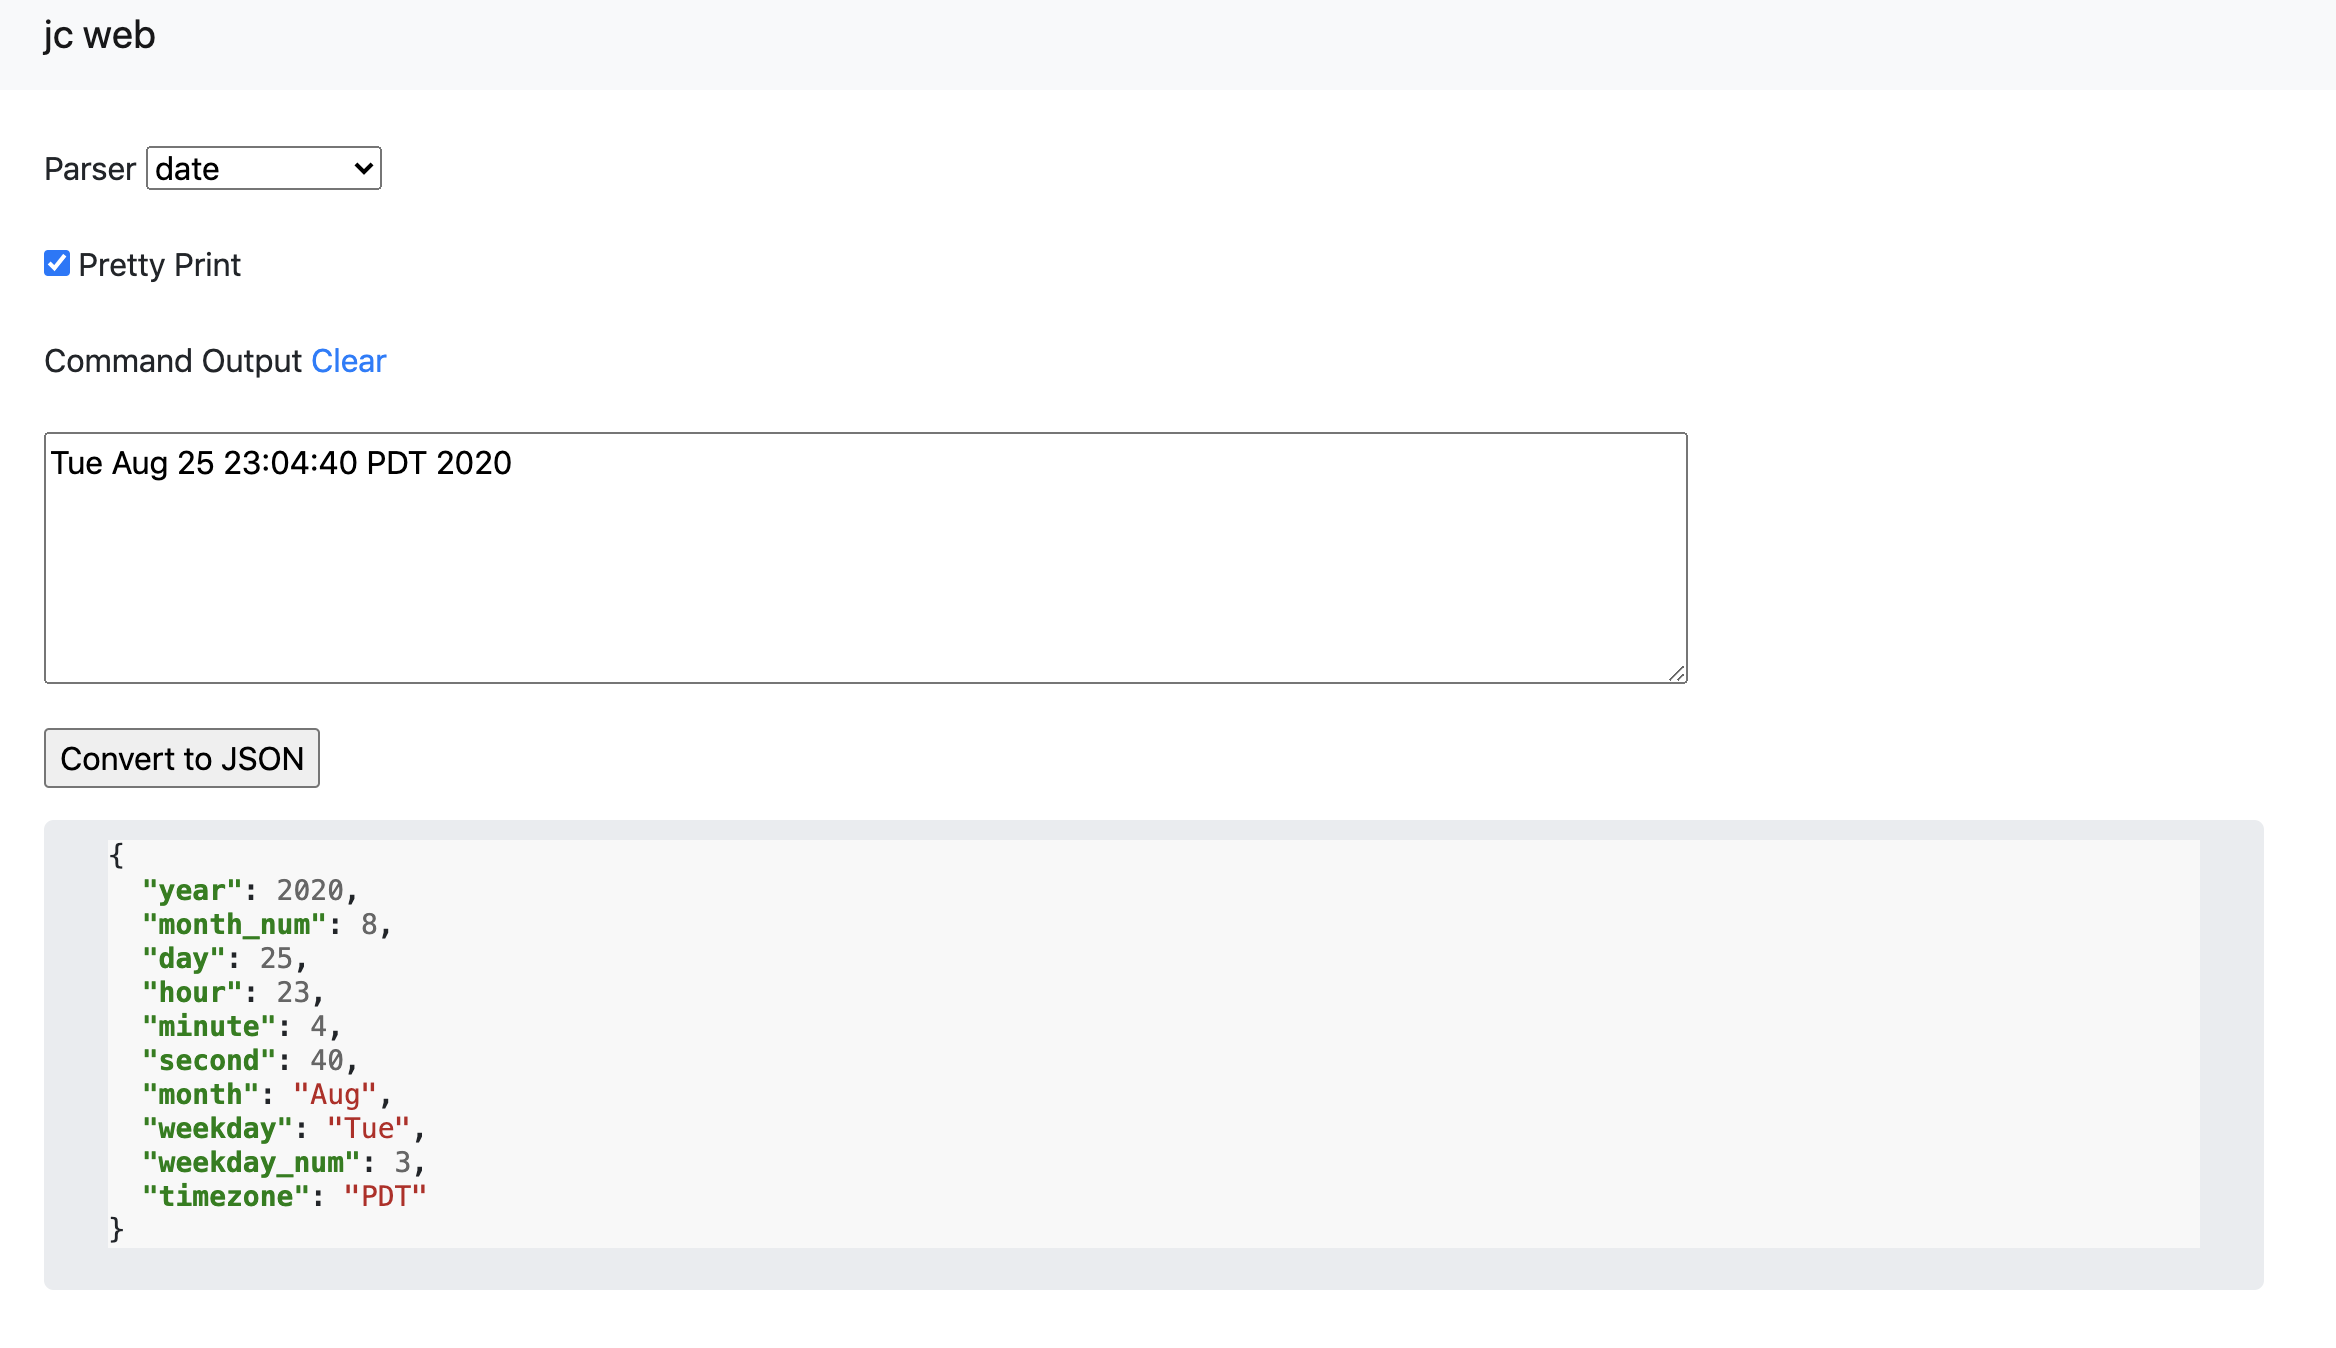
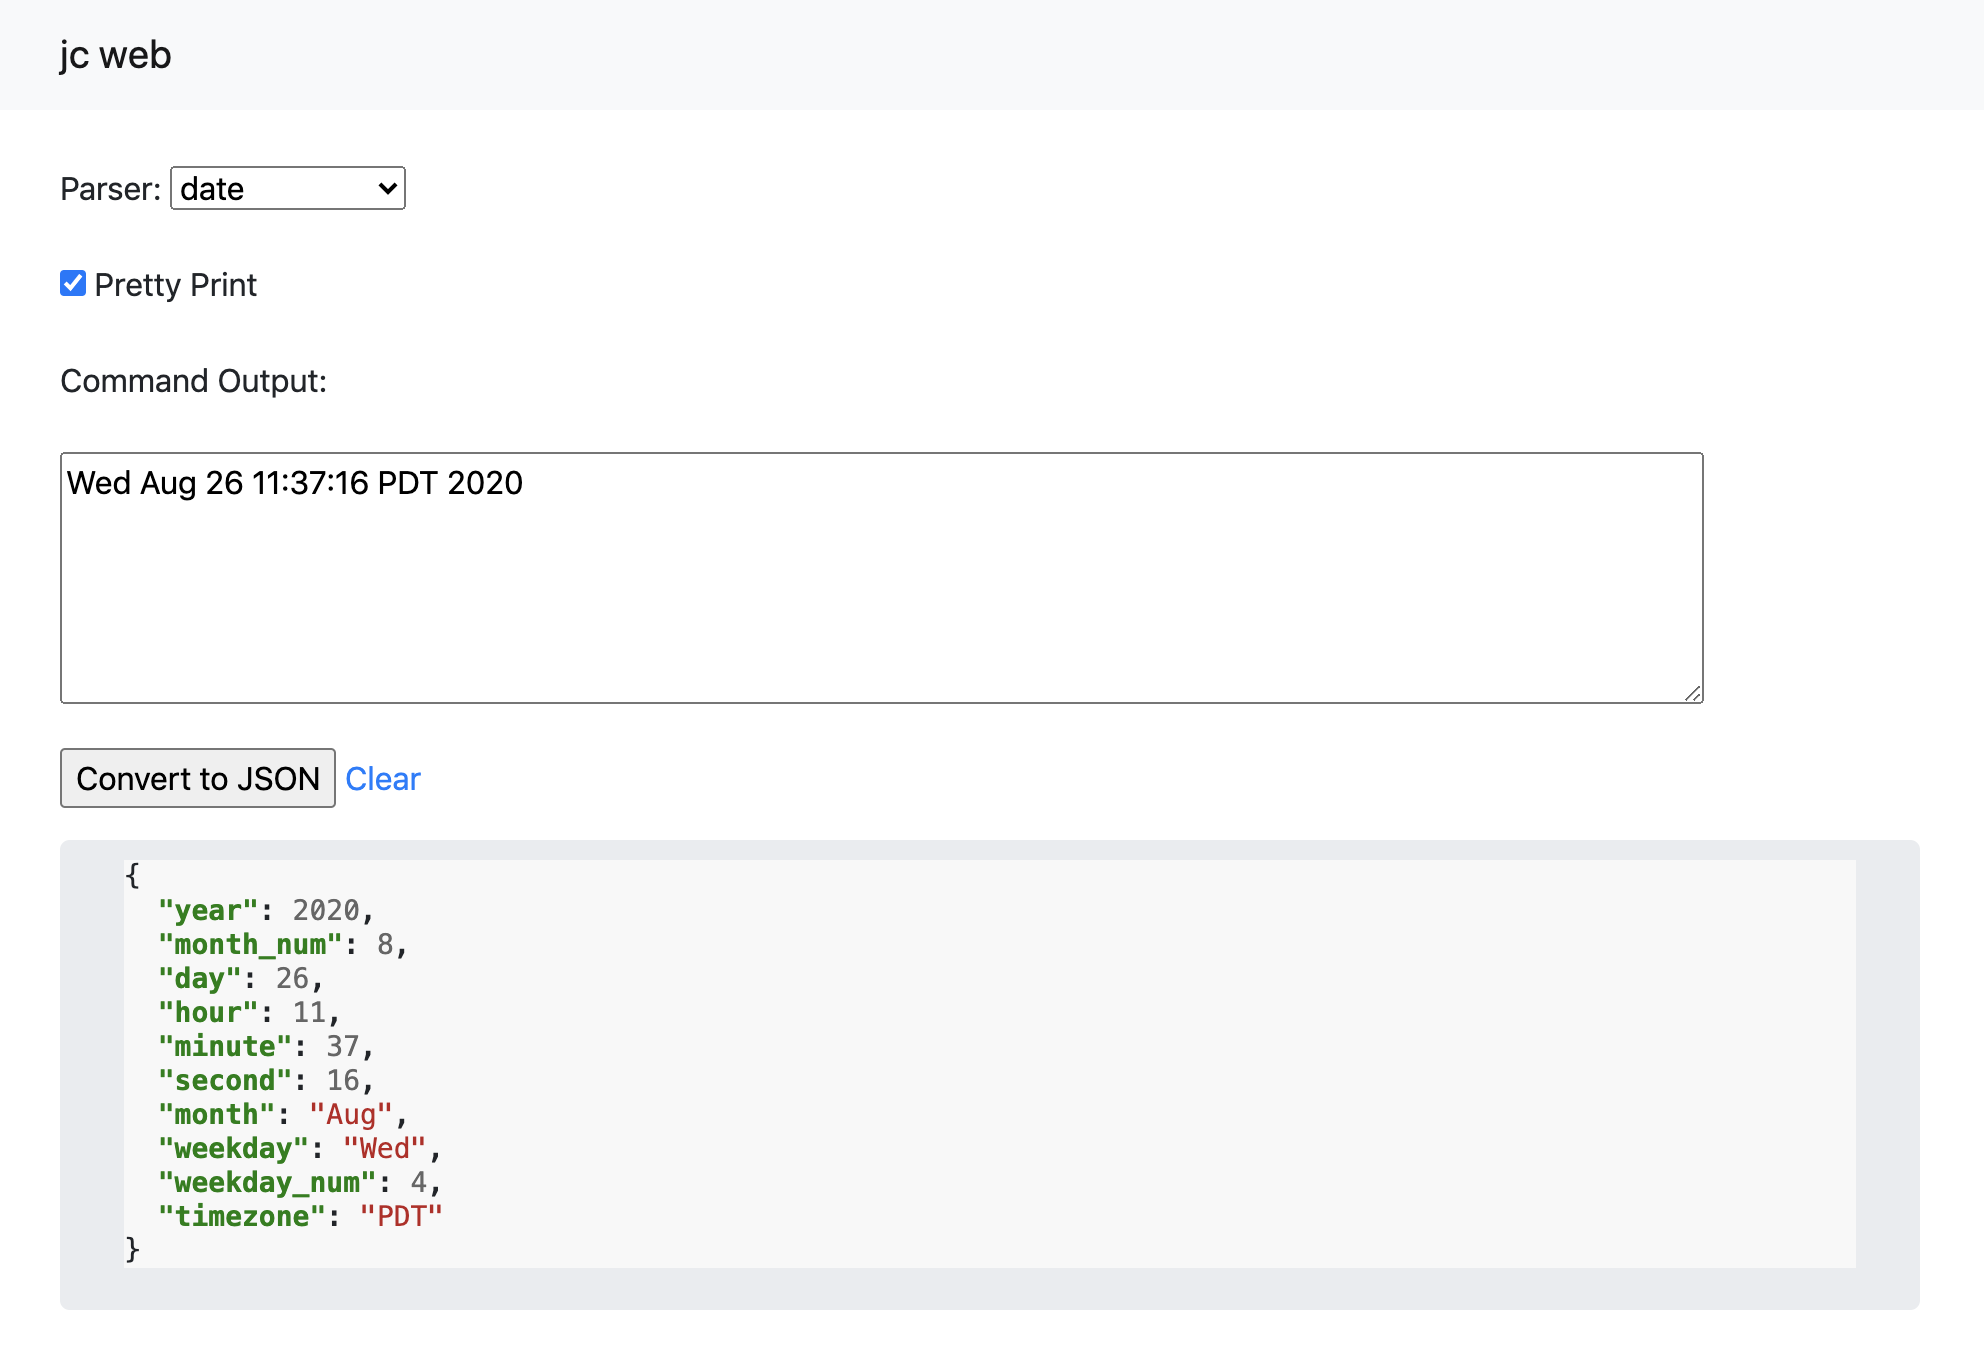
visual enhancements

diff --git a/templates/home.html b/templates/home.html
@@ -4,11 +4,11 @@
     <div class="form-group">
       <form method="POST" action="{{ url_for('home') }}">
           <p>{{ form.csrf_token }}
-          <p>{{ form.command_parser.label }} {{ form.command_parser }}
+          <p>{{ form.command_parser.label }}: {{ form.command_parser }}
           <p>{{ form.pretty_print}} {{ form.pretty_print.label}}
-          <p>{{ form.command_output.label }} <a href="{{ url_for('home') }}">Clear</a>
+          <p>{{ form.command_output.label }}:
           <p>{{ form.command_output }}
-          <p>{{ form.submit}}
+          <p>{{ form.submit}}  <a href="{{ url_for('home') }}">Clear</a>
       </form>
     </div>
   </div>

diff --git a/app.py b/app.py
@@ -83,7 +83,7 @@ parsers = [
 @app.route('/', methods=('GET', 'POST'))
 def home():
     form = MyInput()
-    output = ''
+    output = 'JSON Conversion'
     if form.validate_on_submit():
         parser = importlib.import_module('jc.parsers.' + form.command_parser.data)
         output = parser.parse(form.command_output.data)
